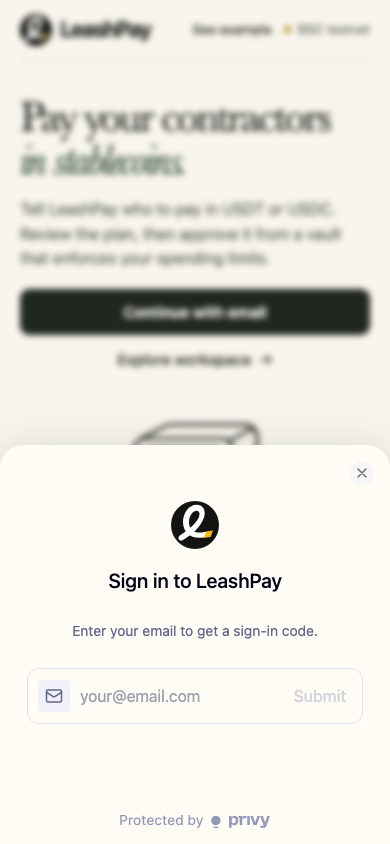
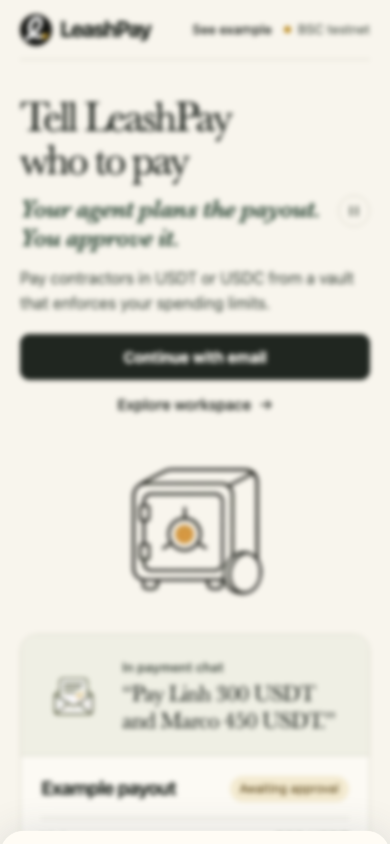
Keep the landing headline fixed and rotate the payout message

diff --git a/web/app/page.tsx b/web/app/page.tsx
@@ -3,9 +3,47 @@
 import { usePrivy } from "@privy-io/react-auth";
 import Image from "next/image";
 import Link from "next/link";
+import { useEffect, useState } from "react";
 import { Brand } from "@/components/Brand";
 import { Workspace } from "@/components/Workspace";
 import styles from "./Welcome.module.css";
+
+function PayoutTagline() {
+  const [showApproval, setShowApproval] = useState(false);
+  const [paused, setPaused] = useState(false);
+
+  useEffect(() => {
+    if (paused) return;
+    const motion = window.matchMedia("(prefers-reduced-motion: reduce)");
+    let timer: number | undefined;
+    function sync() {
+      window.clearInterval(timer);
+      if (!motion.matches && !document.hidden) {
+        timer = window.setInterval(() => setShowApproval(current => !current), 1000);
+      }
+    }
+    sync();
+    motion.addEventListener("change", sync);
+    document.addEventListener("visibilitychange", sync);
+    return () => {
+      window.clearInterval(timer);
+      motion.removeEventListener("change", sync);
+      document.removeEventListener("visibilitychange", sync);
+    };
+  }, [paused]);
+
+  const action = paused ? "Resume rotating text" : "Pause rotating text";
+  return (
+    <div className={styles.tagline}>
+      <div className={styles.phrases}>
+        <span data-active={!showApproval}>Stablecoin payouts</span>{" "}
+        <span data-active={showApproval}>Your agent plans the payout. You approve it.</span>
+      </div>
+      <button type="button" className={styles.rotationControl} aria-label={action} title={action}
+        data-paused={paused} onClick={() => setPaused(current => !current)} />
+    </div>
+  );
+}
 
 export default function Home() {
   const { ready, authenticated, login } = usePrivy();
@@ -23,8 +61,9 @@ export default function Home() {
       <main className={styles.layout}>
         <section className={styles.hero} aria-labelledby="welcome-title">
           <div className={styles.intro}>
-            <h1 id="welcome-title">Pay your contractors <em>in stablecoins.</em></h1>
-            <p>Tell LeashPay who to pay in USDT or USDC. Review the plan, then approve it from a vault that enforces your spending limits.</p>
+            <h1 id="welcome-title">Tell LeashPay who to pay</h1>
+            <PayoutTagline />
+            <p>Pay contractors in USDT or USDC from a vault that enforces your spending limits.</p>
             <div className={styles.actions}>
               <button className={styles.signIn} type="button" disabled={!ready} onClick={() => login()}>
                 Continue with email

diff --git a/web/app/Welcome.module.css b/web/app/Welcome.module.css
@@ -33,7 +33,37 @@
   letter-spacing: -.054em;
   text-wrap: balance;
 }
-.intro h1 em { display: block; color: var(--green); font-weight: inherit; }
+.tagline { display: flex; align-items: start; gap: 8px; margin-top: 12px; }
+.phrases {
+  display: grid;
+  min-width: 0;
+  color: var(--green);
+  font: italic 600 clamp(25px, 2.5vw, 36px)/1.15 var(--serif);
+  letter-spacing: -.025em;
+}
+/* Both phrases size the same grid cell, including when the longer one wraps. */
+.phrases span { grid-area: 1 / 1; opacity: 0; transition: opacity 160ms ease-out; }
+.phrases span[data-active="true"] { opacity: 1; }
+.rotationControl {
+  display: grid;
+  place-items: center;
+  flex: none;
+  width: 32px;
+  height: 32px;
+  padding: 0;
+  border: 1px solid var(--line);
+  border-radius: 50%;
+  background: transparent;
+  color: var(--muted);
+  cursor: pointer;
+}
+.rotationControl:hover { background: #efefe4; }
+.rotationControl::before { content: ""; width: 4px; height: 10px; box-sizing: content-box; border-inline: 2px solid; }
+.rotationControl[data-paused="true"]::before { width: 0; height: 0; margin-left: 2px; border: solid transparent; border-width: 5px 0 5px 8px; border-left-color: currentColor; }
+@media (prefers-reduced-motion: reduce) {
+  .phrases span { grid-area: auto; opacity: 1; transition: none; }
+  .rotationControl { display: none; }
+}
 .intro p { max-width: 440px; margin: 20px 0 26px; color: var(--muted); font-size: clamp(16px, 1.4vw, 18px); line-height: 1.55; }
 .actions { flex-wrap: wrap; gap: 4px 22px; }
 .actions a, .signIn { font-size: 15px; }

diff --git a/web/test/workspace.test.ts b/web/test/workspace.test.ts
@@ -28,7 +28,9 @@ describe("public workspace", () => {
   it.each([true, false])("offers email sign-in and a public preview on the home page (ready: %s)", ready => {
     auth.ready = ready;
     const html = renderToStaticMarkup(createElement(Home));
-    expect(html.replace(/<[^>]+>/g, "")).toContain("Pay your contractors in stablecoins.");
+    expect(html).toContain('<h1 id="welcome-title">Tell LeashPay who to pay</h1>');
+    expect(html).toContain('<span data-active="true">Stablecoin payouts</span>');
+    expect(html).toContain('<span data-active="false">Your agent plans the payout. You approve it.</span>');
     expect(html).toContain("Example payout");
     expect(html).toMatch(/href="\/workspace"/);
     const button = html.match(/<button[^>]*>Continue with email<\/button>/)?.[0];
